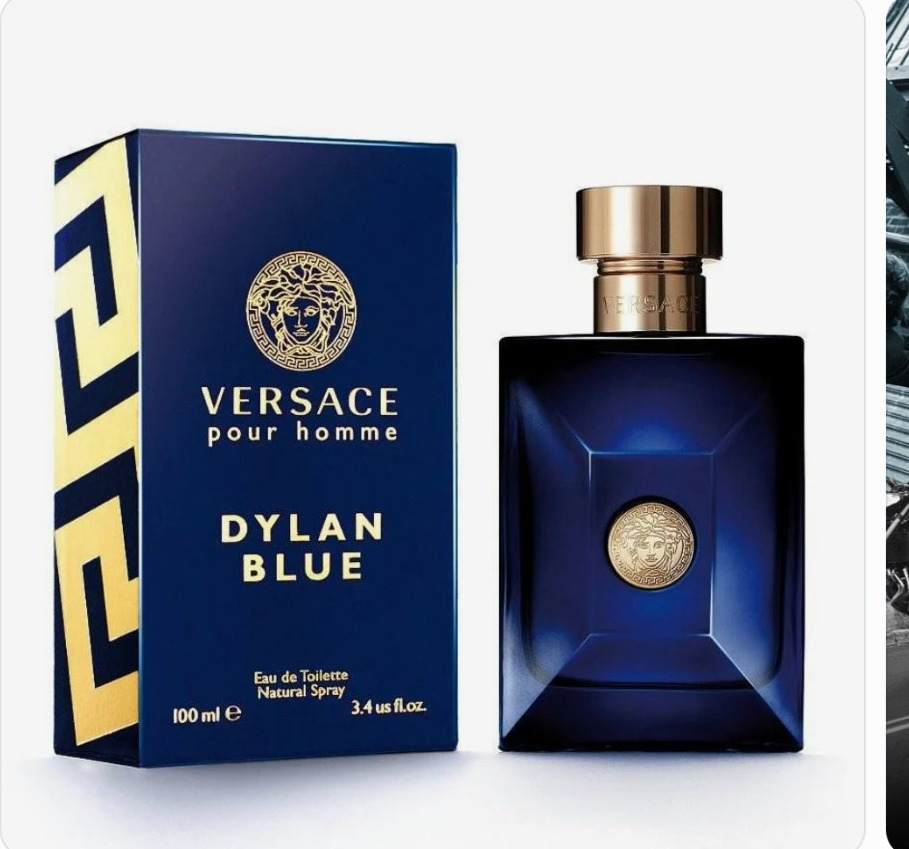
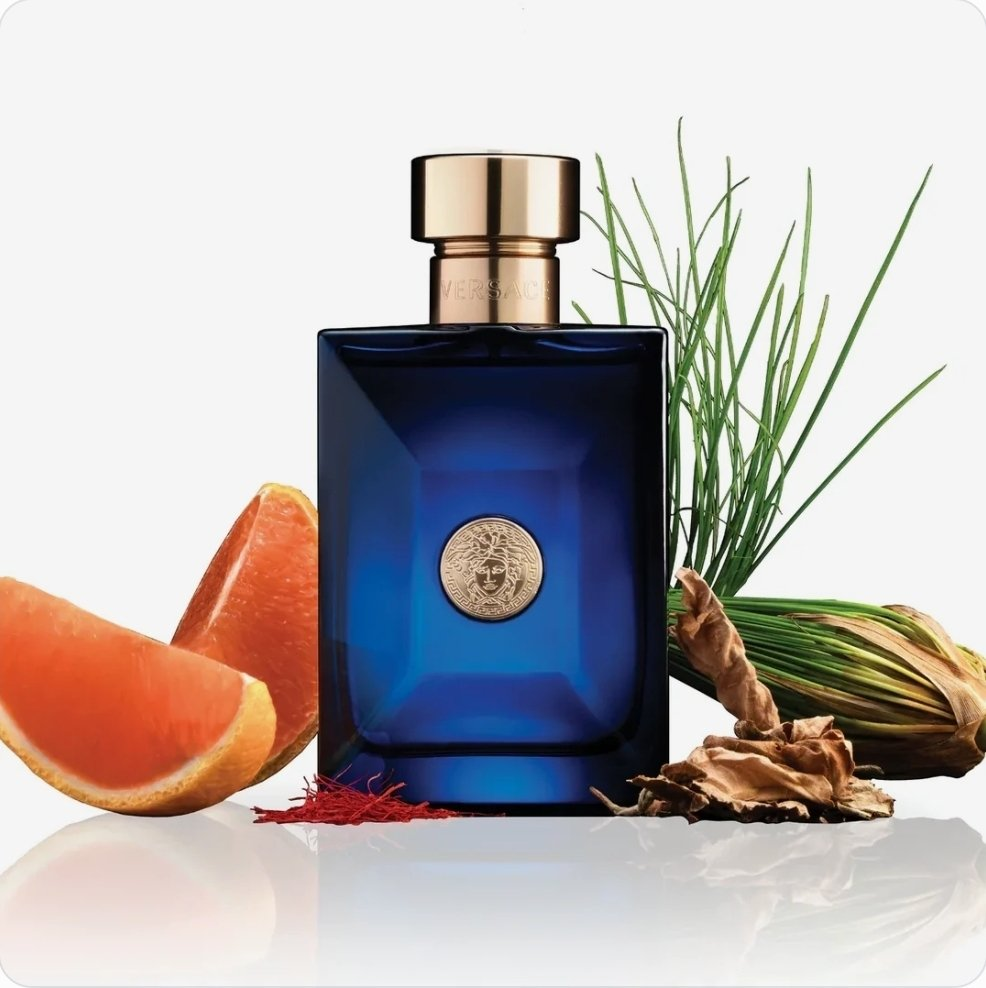
Replace Versace Dylan Blue photos with Boss's new shots

diff --git a/index.html b/index.html
@@ -727,7 +727,7 @@
         { name:'Emporio Armani Stronger With You Intensely Cologne for Men', niche:'Emporio Armani · Men · 3.3 oz EDP', direction:'Pink pepper, toffee and vanilla amber', description:'A spicy opening melts into sweet toffee, vanilla and warm amber woods. Dense, comforting and especially suited to cool-weather evenings.', category:'sweet', images:[{src:'assets/product-armani-stronger-with-you-intensely.jpg', alt:'Emporio Armani Stronger With You Intensely bottle and box — clean packshot'},{src:'assets/gallery-armani-stronger-with-you-intensely-1.jpg', alt:'Emporio Armani Stronger With You Intensely Cologne for Men — customer photo 1'}], price:99, decantPrice:25, originalPrice:120, featured:36 , paymentLink:'https://buy.stripe.com/5kQ6oJ3UBgYA0dAc0Pf7i0W'},
         { name:'Versace Eros Cologne for Men (Tester)', niche:'Versace · Men · 3.4 oz EDT · Tester', direction:'Mint, green apple and vanilla woods', description:'Tester version: the authentic 3.4 oz fragrance supplied in tester packaging rather than standard retail presentation. Bright mint and apple lead into aromatic warmth, vanilla and smooth woods.', category:'fresh', images:[{src:'assets/product-versace-eros-tester.jpg', alt:'Versace Eros tester bottle and tester box — clean packshot'},{src:'assets/gallery-versace-eros-1.jpg', alt:'Versace Eros Cologne for Men (Tester) — customer photo 1'},{src:'assets/gallery-versace-eros-2.jpg', alt:'Versace Eros Cologne for Men (Tester) — customer photo 2'}], price:55, decantPrice:14, originalPrice:68, featured:37 , paymentLink:'https://buy.stripe.com/cNi00laiZaAc6BY7Kzf7i0K'},
         { name:'Afnan Supremacy Collector\'s Edition Perfume for Unisex', niche:'Afnan · Unisex · 3.4 oz EDP', direction:'Bright fruit, saffron and smoky woods', description:'Vibrant fruit and saffron open with clarity before smoky woods and amber bring depth. Polished and assertive with a versatile unisex profile.', category:'woody', images:[{src:'assets/product-afnan-supremacy-collectors.jpg', alt:'Afnan Supremacy Collector’s Edition bottle and box — clean packshot'},{src:'assets/gallery-afnan-supremacy-collectors-edition-1.jpg', alt:'Afnan Supremacy Collector’s Edition Perfume for Unisex — customer photo 1'},{src:'assets/gallery-afnan-supremacy-collectors-edition-2.jpg', alt:'Afnan Supremacy Collector’s Edition Perfume for Unisex — customer photo 2'}], price:59, decantPrice:15, originalPrice:72, featured:38 , paymentLink:'https://buy.stripe.com/5kQfZj1Mt5fS5xUaWLf7i0T'},
-        { name:'Versace Dylan Blue Cologne for Men', niche:'Versace · Men · 3.4 oz EDT', direction:'Aquatic citrus, incense and dark musk', description:'Fresh aquatic citrus and aromatics are sharpened by incense, woods and dark musk. Clean and confident with enough depth for day or night.', category:'fresh', images:[{src:'assets/product-versace-dylan-blue.jpg', alt:'Versace Dylan Blue dark blue bottle — clean packshot'},{src:'assets/gallery-versace-dylan-blue-1.jpg', alt:'Versace Dylan Blue Cologne for Men — customer photo 1'},{src:'assets/gallery-versace-dylan-blue-2.jpg', alt:'Versace Dylan Blue Cologne for Men — customer photo 2'},{src:'assets/gallery-versace-dylan-blue-3.jpg', alt:'Versace Dylan Blue Cologne for Men — customer photo 3'},{src:'assets/gallery-versace-dylan-blue-4.jpg', alt:'Versace Dylan Blue Cologne for Men — customer photo 4'},{src:'assets/gallery-versace-dylan-blue-5.jpg', alt:'Versace Dylan Blue Cologne for Men — customer photo 5'}], price:68, decantPrice:17, originalPrice:82, featured:39 , paymentLink:'https://buy.stripe.com/eVqdRbdvb8s4aSe4ynf7i0U'},
+        { name:'Versace Dylan Blue Cologne for Men', niche:'Versace · Men · 3.4 oz EDT', direction:'Aquatic citrus, incense and dark musk', description:'Fresh aquatic citrus and aromatics are sharpened by incense, woods and dark musk. Clean and confident with enough depth for day or night.', category:'fresh', images:[{src:'assets/product-versace-dylan-blue.jpg', alt:'Versace Dylan Blue dark blue bottle on a clean white background'},{src:'assets/gallery-versace-dylan-blue-1.jpg', alt:'Versace Dylan Blue bottle with citrus and green ingredients'},{src:'assets/gallery-versace-dylan-blue-2.jpg', alt:'Versace Dylan Blue campaign visual with model'}], price:68, decantPrice:17, originalPrice:82, featured:39 , paymentLink:'https://buy.stripe.com/eVqdRbdvb8s4aSe4ynf7i0U'},
         { name:'Coach Dreams Perfume for Women (Tester)', niche:'Coach · Women · 3.0 oz EDP · Tester', direction:'Pear, gardenia and warm woods', description:'Tester version: the authentic 3.0 oz fragrance supplied in tester packaging rather than standard retail presentation. Bright pear and gardenia rest on a warm, softly woody base.', category:'fresh', images:[{src:'assets/product-coach-dreams-tester.jpg', alt:'Coach Dreams tester bottle and box on a clean white background'},{src:'assets/product-coach-dreams-tester-2.jpg', alt:'Coach Dreams tester bottle on a clean white background'},{src:'assets/product-coach-dreams-tester-3.jpg', alt:'Coach Dreams tester bottle in a styled fruit composition'}], price:47, decantPrice:12, originalPrice:58, featured:40 , paymentLink:'https://buy.stripe.com/bJe5kFdvb23GaSee8Xf7i0V'},
         { name:'Dolce & Gabbana Devotion Intense Perfume for Women', niche:'Dolce & Gabbana · Women · 1.7 oz EDP Intense', direction:'Candied lemon, orange blossom and warm vanilla', description:'Sparkling candied lemon melts into creamy orange blossom over a rich vanilla base. Warm, radiant and unmistakably feminine.', category:'sweet', images:[{src:'assets/product-dolce-gabbana-devotion.jpg', alt:'Dolce & Gabbana Devotion bottle and box — clean packshot'}], price:45, featured:41 , paymentLink:'https://buy.stripe.com/6oU5kFezf4bO5xUfd1f7i0G'}
       ];
